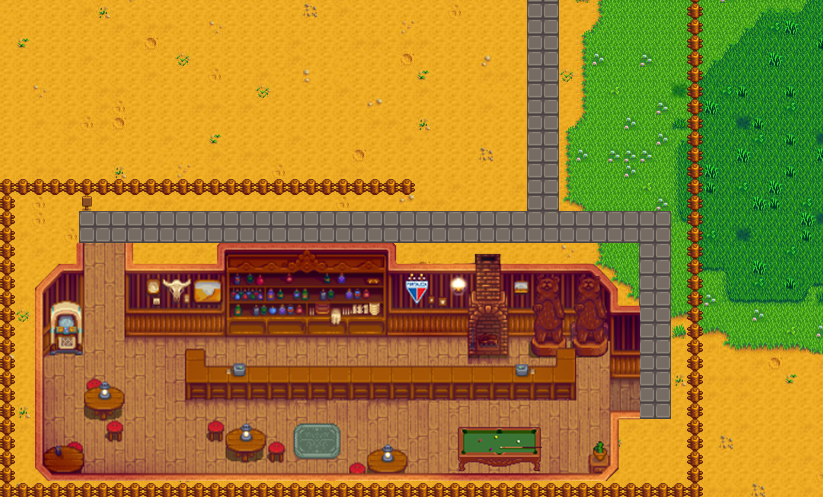
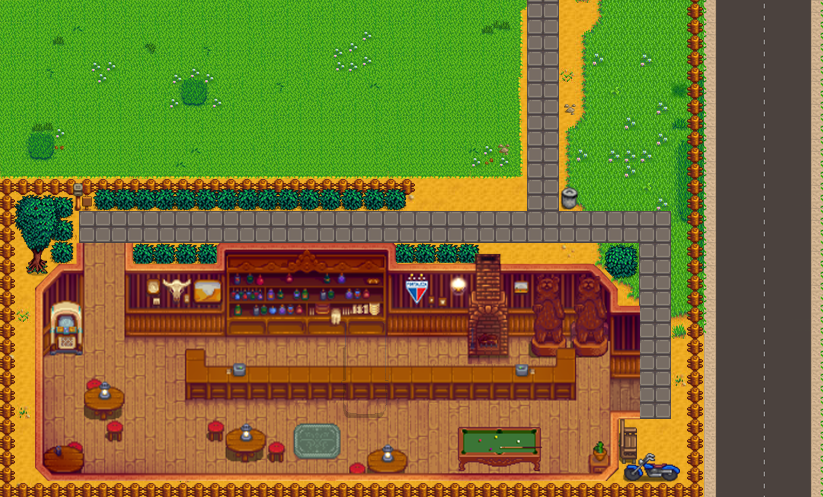
limpeza de arquivos e background novo

diff --git a/bar/Canvas.java b/bar/Canvas.java
@@ -68,7 +68,7 @@ public class Canvas extends JPanel implements Runnable
 		
 		this.quantidadeDeCadeiras = quantidadeDeCadeiras;
 		this.bartender = new Bartender(h,w);
-		this.carro = new Carro(h,w,0,1100);
+		this.carro = new Carro(h,w,0,1118);
 		this.caminhao = new Carro(h,w,1,1190);
 
 		for(int i = 0; i <= quantidadeDeCadeiras; i++) {
